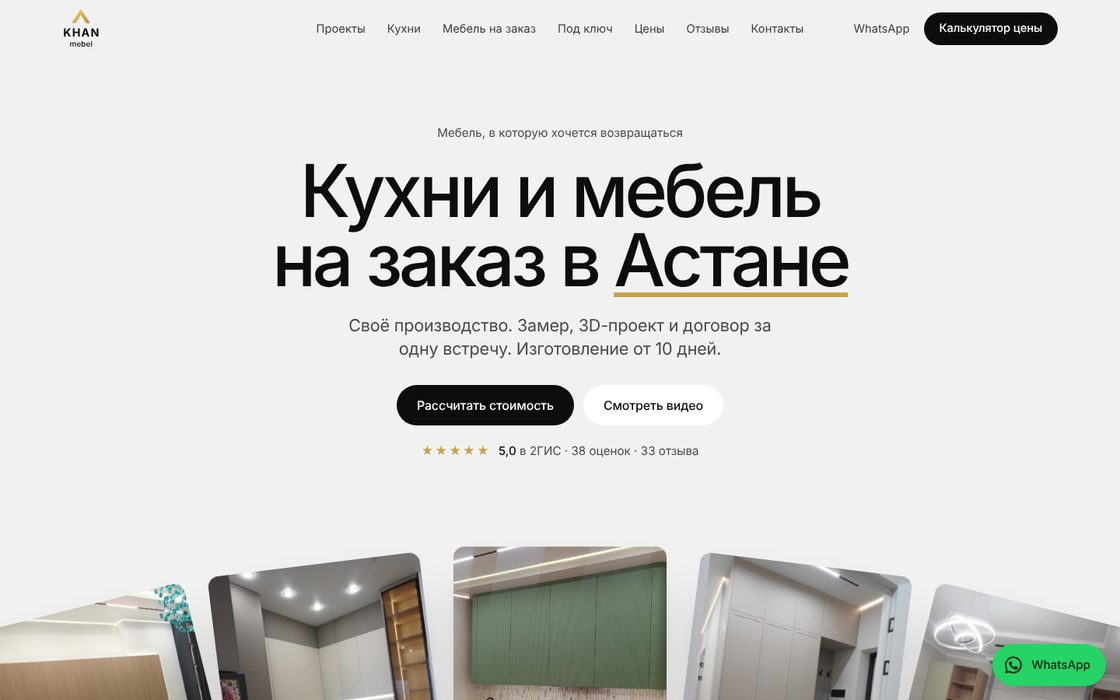
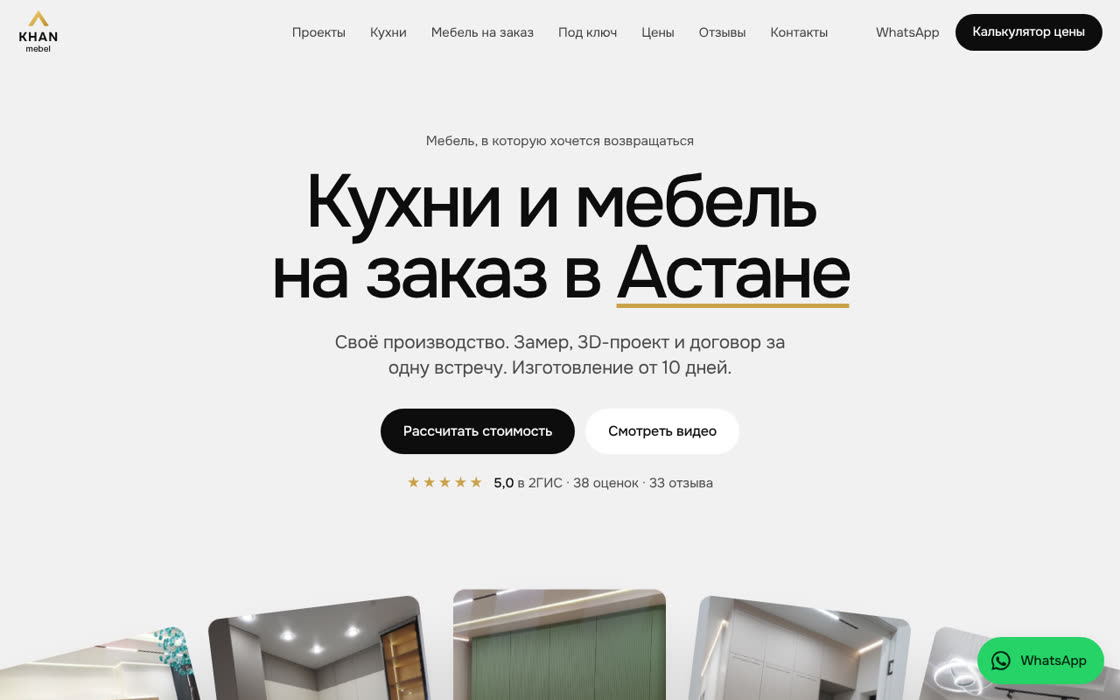
Khan Mebel на khanmebel.kz, новый кейс КазТелеСистем
- Все ссылки Khan Mebel ведут на khanmebel.kz, свежий скриншот сайта, факт «5,0 в 2ГИС»
- Восьмой слайд кейсов и карточка в портфолио: КазТелеСистем (kaztelesystem.kz),
  интернет-провайдер в Астане, логотип, скриншот, факты с сайта; запись в llms.txt

Claude-Session: https://claude.ai/code/session_012ySrRpeaorC2YC2iHXGCcF

diff --git a/index.html b/index.html
@@ -123,13 +123,13 @@
         </article>
         <article class="cs-slide" data-bg="#e7f6ec" style="--c:#1f9d55;--tc:#fff" aria-roledescription="слайд" aria-label="Khan Mebel: мебель на заказ" aria-hidden="true">
           <div class="cs-panel"><span class="cs-top">Мебель на заказ</span><span class="cs-bot">Khan Mebel</span></div>
-          <a class="cs-circle fill" href="https://khanmebel.vercel.app" target="_blank" rel="noopener" aria-label="Открыть сайт khanmebel.vercel.app"><img src="/assets/img/logos/khan-mebel.jpg" alt="Логотип Khan Mebel" width="400" height="400" decoding="async"></a>
+          <a class="cs-circle fill" href="https://khanmebel.kz" target="_blank" rel="noopener" aria-label="Открыть сайт khanmebel.kz"><img src="/assets/img/logos/khan-mebel.jpg" alt="Логотип Khan Mebel" width="400" height="400" decoding="async"></a>
           <div class="cs-card p1" style="--d:0.15s;--z:80"><span class="cs-shot"><img src="/assets/img/work/khan-mebel.jpg" alt="" width="1120" height="700" decoding="async"></span></div>
           <div class="cs-card p2" style="--d:0.22s;--z:110"><span class="cs-chip dark">Калькулятор кухни</span></div>
-          <div class="cs-card p3" style="--d:0.29s;--z:60"><span class="cs-stat star"><svg viewBox="0 0 24 24" aria-hidden="true"><path d="m12 2 3 6.9 7.5.6-5.7 4.9 1.8 7.3L12 17.8 5.4 21.7l1.8-7.3L1.5 9.5 9 8.9 12 2Z"/></svg><b>5,0</b>рейтинг и отзывы прямо на сайте</span></div>
+          <div class="cs-card p3" style="--d:0.29s;--z:60"><span class="cs-stat star"><svg viewBox="0 0 24 24" aria-hidden="true"><path d="m12 2 3 6.9 7.5.6-5.7 4.9 1.8 7.3L12 17.8 5.4 21.7l1.8-7.3L1.5 9.5 9 8.9 12 2Z"/></svg><b>5,0</b>в 2ГИС, отзывы прямо на сайте</span></div>
           <div class="cs-card p4" style="--d:0.36s;--z:120"><span class="cs-chip wa"><svg viewBox="0 0 24 24" aria-hidden="true"><use href="#ico-wa"/></svg>Заявка на замер</span></div>
           <div class="cs-card p5" style="--d:0.43s;--z:70"><span class="cs-chip">Кухни · шкафы · гардеробные</span></div>
-          <a class="cs-link" href="https://khanmebel.vercel.app" target="_blank" rel="noopener">Открыть сайт khanmebel.vercel.app ↗</a>
+          <a class="cs-link" href="https://khanmebel.kz" target="_blank" rel="noopener">Открыть сайт khanmebel.kz ↗</a>
         </article>
         <article class="cs-slide" data-bg="#fdf6dc" style="--c:#f4b400;--tc:#111" aria-roledescription="слайд" aria-label="ABADAN SPORT: форма на заказ" aria-hidden="true">
           <div class="cs-panel"><span class="cs-top">Форма на заказ</span><span class="cs-bot">ABADAN SPORT</span></div>
@@ -161,6 +161,16 @@
           <div class="cs-card p5" style="--d:0.43s;--z:70"><span class="cs-chip dark">Страница под каждую услугу</span></div>
           <a class="cs-link" href="https://glav-buh.kz/" target="_blank" rel="noopener">Открыть сайт glav-buh.kz ↗</a>
         </article>
+        <article class="cs-slide" data-bg="#e8f4ff" style="--c:#1d6fe0;--tc:#fff" aria-roledescription="слайд" aria-label="КазТелеСистем: сайт интернет-провайдера в Астане" aria-hidden="true">
+          <div class="cs-panel"><span class="cs-top">Интернет-провайдер в Астане</span><span class="cs-bot">КазТелеСистем</span></div>
+          <a class="cs-circle" href="https://kaztelesystem.kz/" target="_blank" rel="noopener" aria-label="Открыть сайт kaztelesystem.kz"><img src="/assets/img/logos/kaztelesystem.png" alt="Логотип КазТелеСистем" width="400" height="148" decoding="async"></a>
+          <div class="cs-card p1" style="--d:0.15s;--z:80"><span class="cs-shot"><img src="/assets/img/work/kaztelesystem.jpg" alt="" width="1120" height="700" decoding="async"></span></div>
+          <div class="cs-card p2" style="--d:0.22s;--z:110"><span class="cs-chip">Оптика 50 · 100 · 200 Мбит/с</span></div>
+          <div class="cs-card p3" style="--d:0.29s;--z:60"><span class="cs-stat"><b>от 4 500 ₸</b>в месяц, тарифы и цена за год прямо на сайте</span></div>
+          <div class="cs-card p4" style="--d:0.36s;--z:120"><span class="cs-chip wa"><svg viewBox="0 0 24 24" aria-hidden="true"><use href="#ico-wa"/></svg>Заявки в WhatsApp</span></div>
+          <div class="cs-card p5" style="--d:0.43s;--z:70"><span class="cs-chip dark">«Проверить мой дом»</span></div>
+          <a class="cs-link" href="https://kaztelesystem.kz/" target="_blank" rel="noopener">Открыть сайт kaztelesystem.kz ↗</a>
+        </article>
           </div>
         </div>
         <div class="cs-progress" aria-hidden="true"><i id="csProg"></i></div>
@@ -174,6 +184,7 @@
           <button type="button" role="tab" style="--c:#f4b400" aria-label="ABADAN SPORT: форма на заказ" aria-selected="false"></button>
           <button type="button" role="tab" style="--c:#1b1b1b" aria-label="ZIKR: сайт бренда мужской одежды" aria-selected="false"></button>
           <button type="button" role="tab" style="--c:#e30613" aria-label="ГлавБух: сайт бухгалтерской компании в Астане" aria-selected="false"></button>
+          <button type="button" role="tab" style="--c:#1d6fe0" aria-label="КазТелеСистем: сайт интернет-провайдера в Астане" aria-selected="false"></button>
         </div>
         <button class="cs-arrow" id="csNext" type="button" aria-label="Следующий кейс"><svg viewBox="0 0 24 24" aria-hidden="true"><path d="m8.6 18.6 1.4 1.4 8-8-8-8-1.4 1.4 6.6 6.6z"/></svg></button>
         </div>
@@ -382,13 +393,13 @@
         </div>
         <div class="works" id="works">
           <article class="work reveal" data-cat="site seo">
-            <a class="work-link" href="https://khanmebel.vercel.app" target="_blank" rel="noopener" aria-label="Открыть сайт Khan Mebel">
+            <a class="work-link" href="https://khanmebel.kz" target="_blank" rel="noopener" aria-label="Открыть сайт Khan Mebel">
               <div class="work-media"><span class="work-logo"><img src="/assets/img/logos/khan-mebel.jpg" alt="Логотип Khan Mebel" loading="lazy"></span><img src="/assets/img/work/khan-mebel.jpg" alt="Сайт Khan Mebel: кухни и мебель на заказ в Астане" loading="lazy" width="1120" height="700"></div>
               <div class="work-info">
                 <div class="work-tags"><span>Сайт</span><span>SEO</span><span>Калькулятор</span></div>
                 <h3>Khan Mebel · мебель на заказ</h3>
                 <p>Сайт-шоурум мебельного производства в Астане: калькулятор стоимости кухни и шкафа, 60+ работ в галерее, SEO под «кухни на заказ Астана».</p>
-                <span class="work-url">khanmebel.vercel.app ↗</span>
+                <span class="work-url">khanmebel.kz ↗</span>
               </div>
             </a>
           </article>
@@ -480,6 +491,17 @@
                 <h3>ГлавБух · бухгалтерская компания</h3>
                 <p>Сайт бухгалтерской компании в Астане, работающей с 2011 года: отдельная страница под каждую услугу, личный кабинет клиента и заявки онлайн.</p>
                 <span class="work-url">glav-buh.kz ↗</span>
+              </div>
+            </a>
+          </article>
+          <article class="work reveal" data-cat="site seo">
+            <a class="work-link" href="https://kaztelesystem.kz/" target="_blank" rel="noopener" aria-label="Открыть сайт kaztelesystem.kz">
+              <div class="work-media"><span class="work-logo"><img src="/assets/img/logos/kaztelesystem.png" alt="Логотип КазТелеСистем" loading="lazy"></span><img src="/assets/img/work/kaztelesystem.jpg" alt="Сайт КазТелеСистем: домашний интернет по оптоволокну в Астане" loading="lazy" width="1120" height="700"></div>
+              <div class="work-info">
+                <div class="work-tags"><span>Сайт</span><span>SEO</span><span>Анимация</span></div>
+                <h3>КазТелеСистем · интернет-провайдер</h3>
+                <p>Сайт оператора связи в Астане: безлимитный интернет по оптоволокну от 4 500 ₸, тарифы для дома и бизнеса, проверка подключения дома и заявки в WhatsApp.</p>
+                <span class="work-url">kaztelesystem.kz ↗</span>
               </div>
             </a>
           </article>

diff --git a/assets/js/finder.js b/assets/js/finder.js
@@ -15,7 +15,7 @@
       site: '<div class="fd-mock"><div class="fd-mock-nav"><b>NE-TI</b><span>Услуги</span><span>Техника</span><span>Контакты</span></div><div class="fd-mock-hero"><small>Астана и область</small><h4>Забивка свай под фундамент</h4><p>Своя техника · выезд в день обращения</p><span class="fd-mock-btn">Рассчитать стоимость</span></div><div class="fd-mock-row"><i></i><i></i><i></i></div></div>'
     },
     {
-      tab: 'кухни на заказ астана', q: 'кухни на заказ астана', url: 'khanmebel.vercel.app', biz: 'Khan Mebel', ava: 'K', rank: 0,
+      tab: 'кухни на заказ астана', q: 'кухни на заказ астана', url: 'khanmebel.kz', biz: 'Khan Mebel', ava: 'K', rank: 0,
       title: 'Кухни и мебель на заказ в Астане: Khan Mebel', desc: 'Своё производство, замер и дизайн-проект бесплатно. Рассчитайте стоимость кухни онлайн за минуту.',
       msg: 'Здравствуйте! Хочу кухню на заказ, длина около 3 метров. Можно замер?',
       site: '<img src="/assets/img/work/khan-mebel.jpg" alt="" loading="lazy">'
